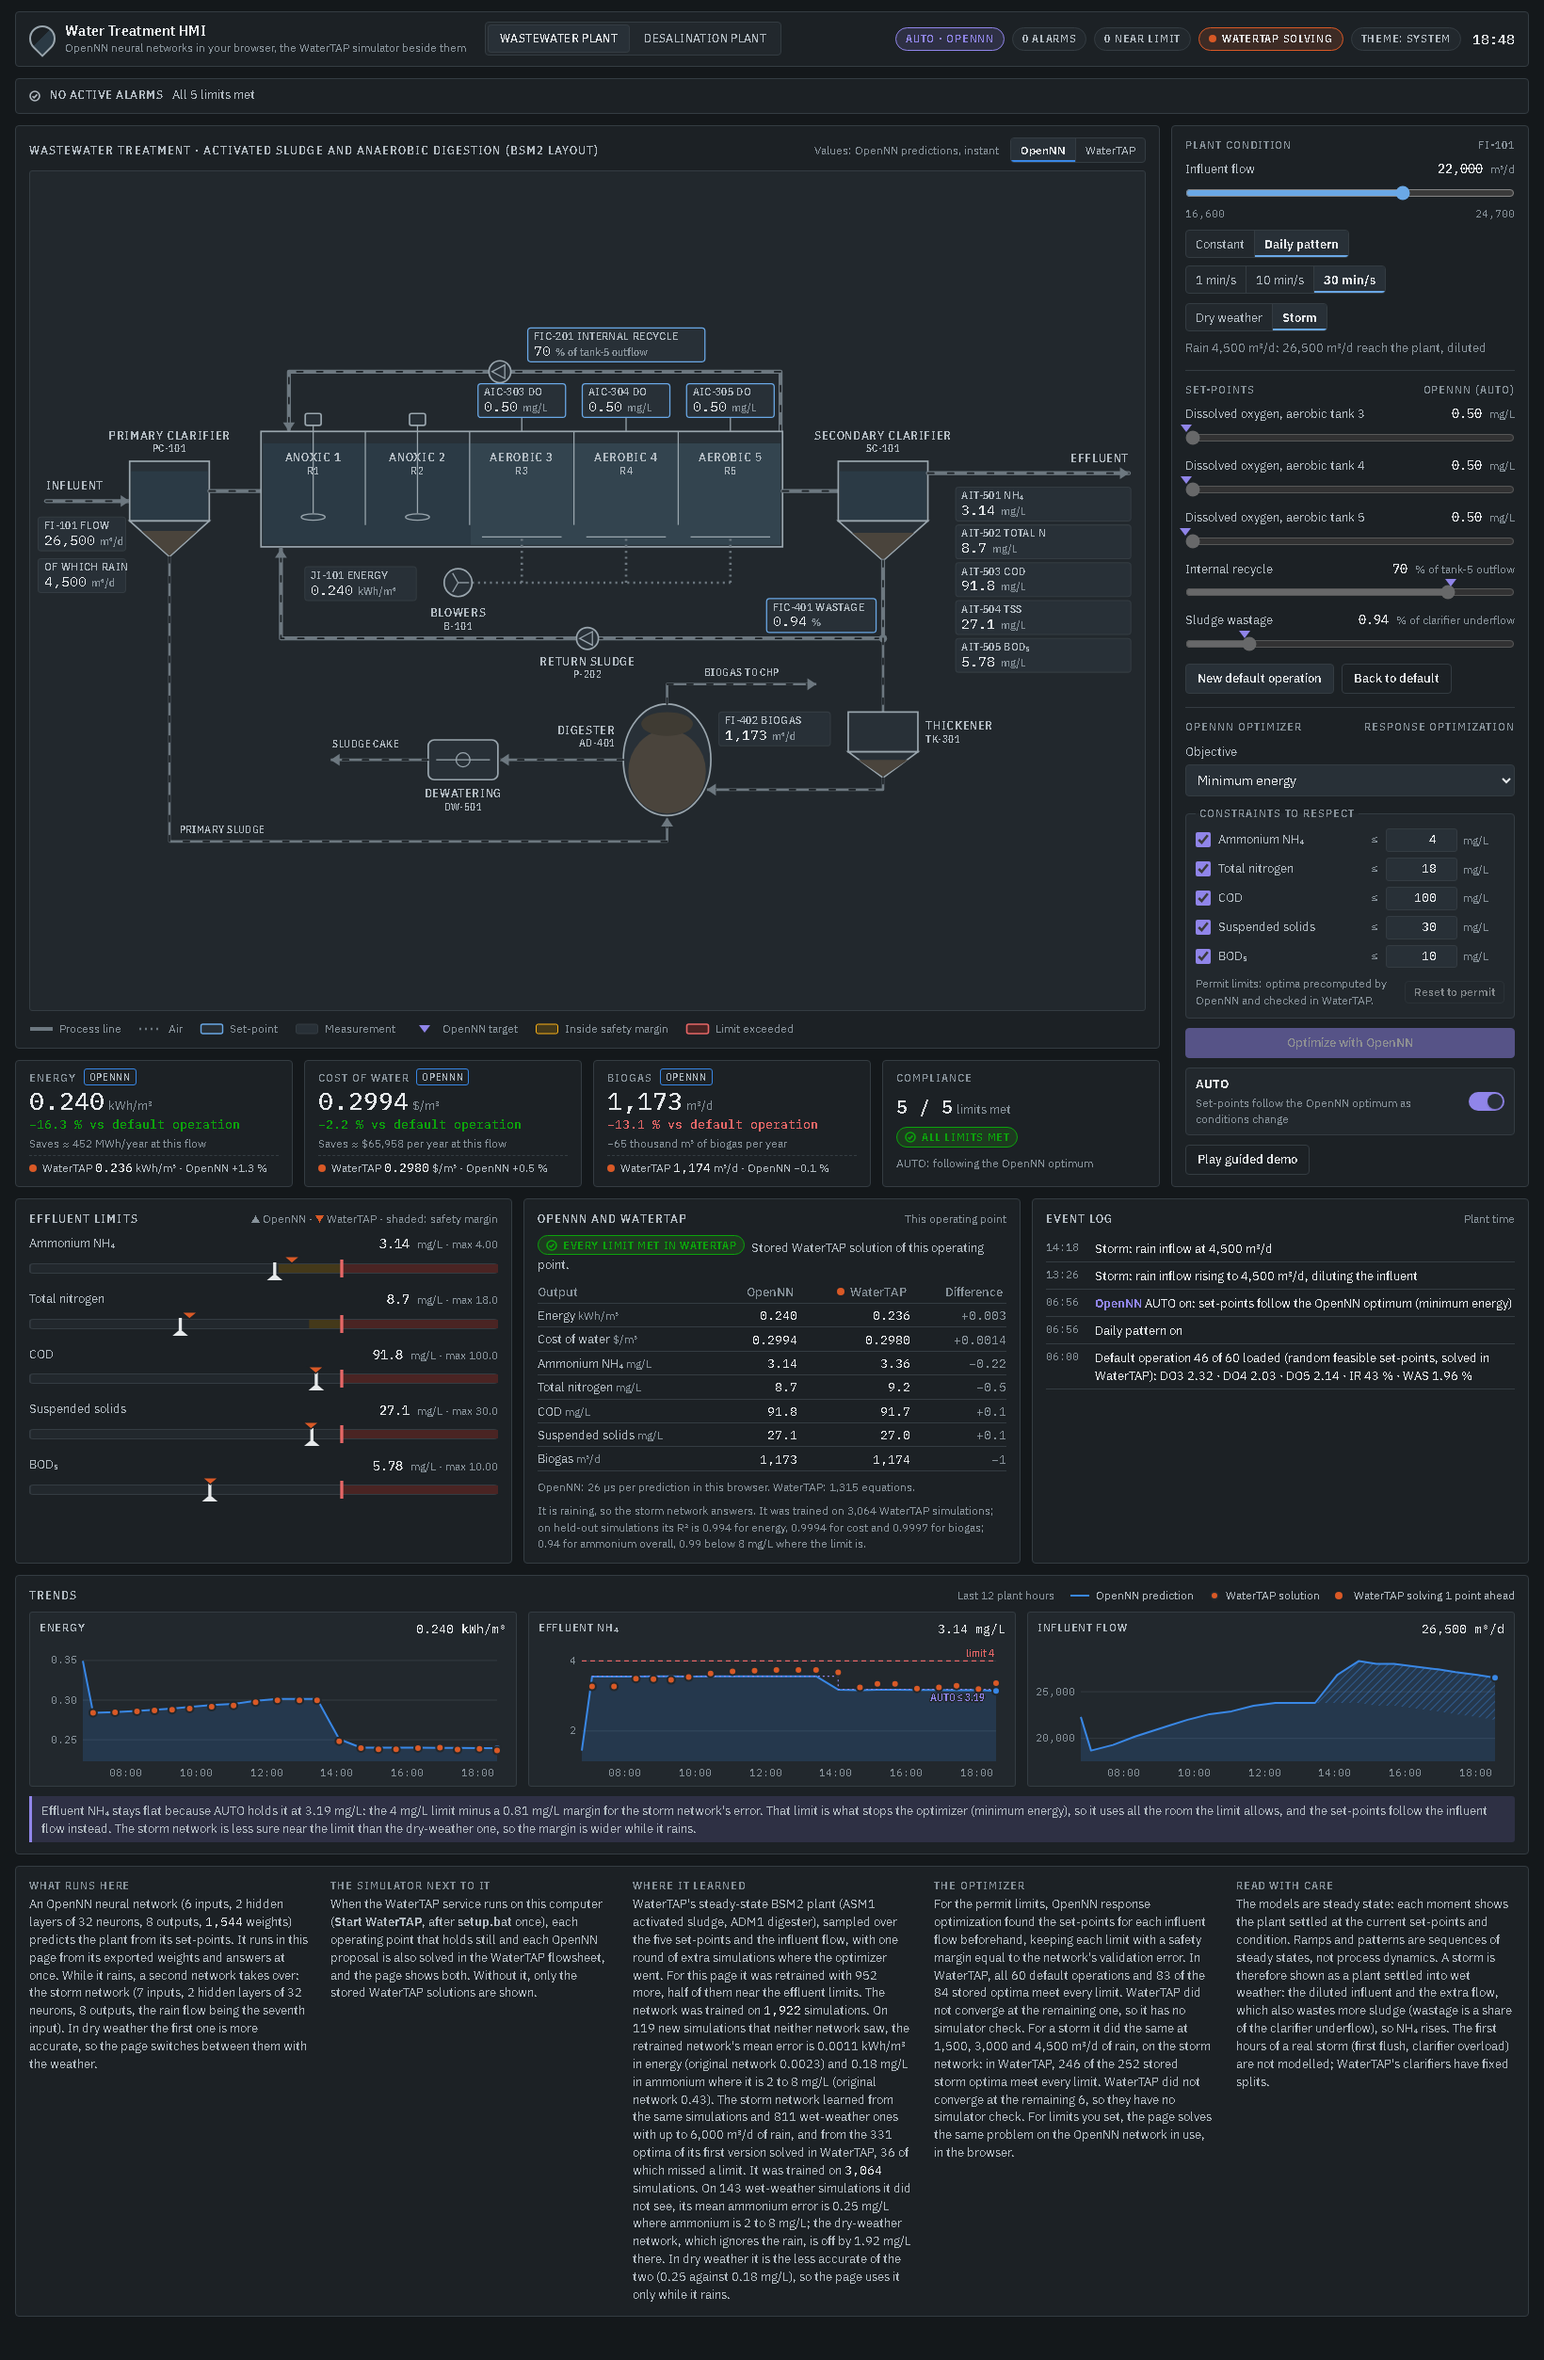
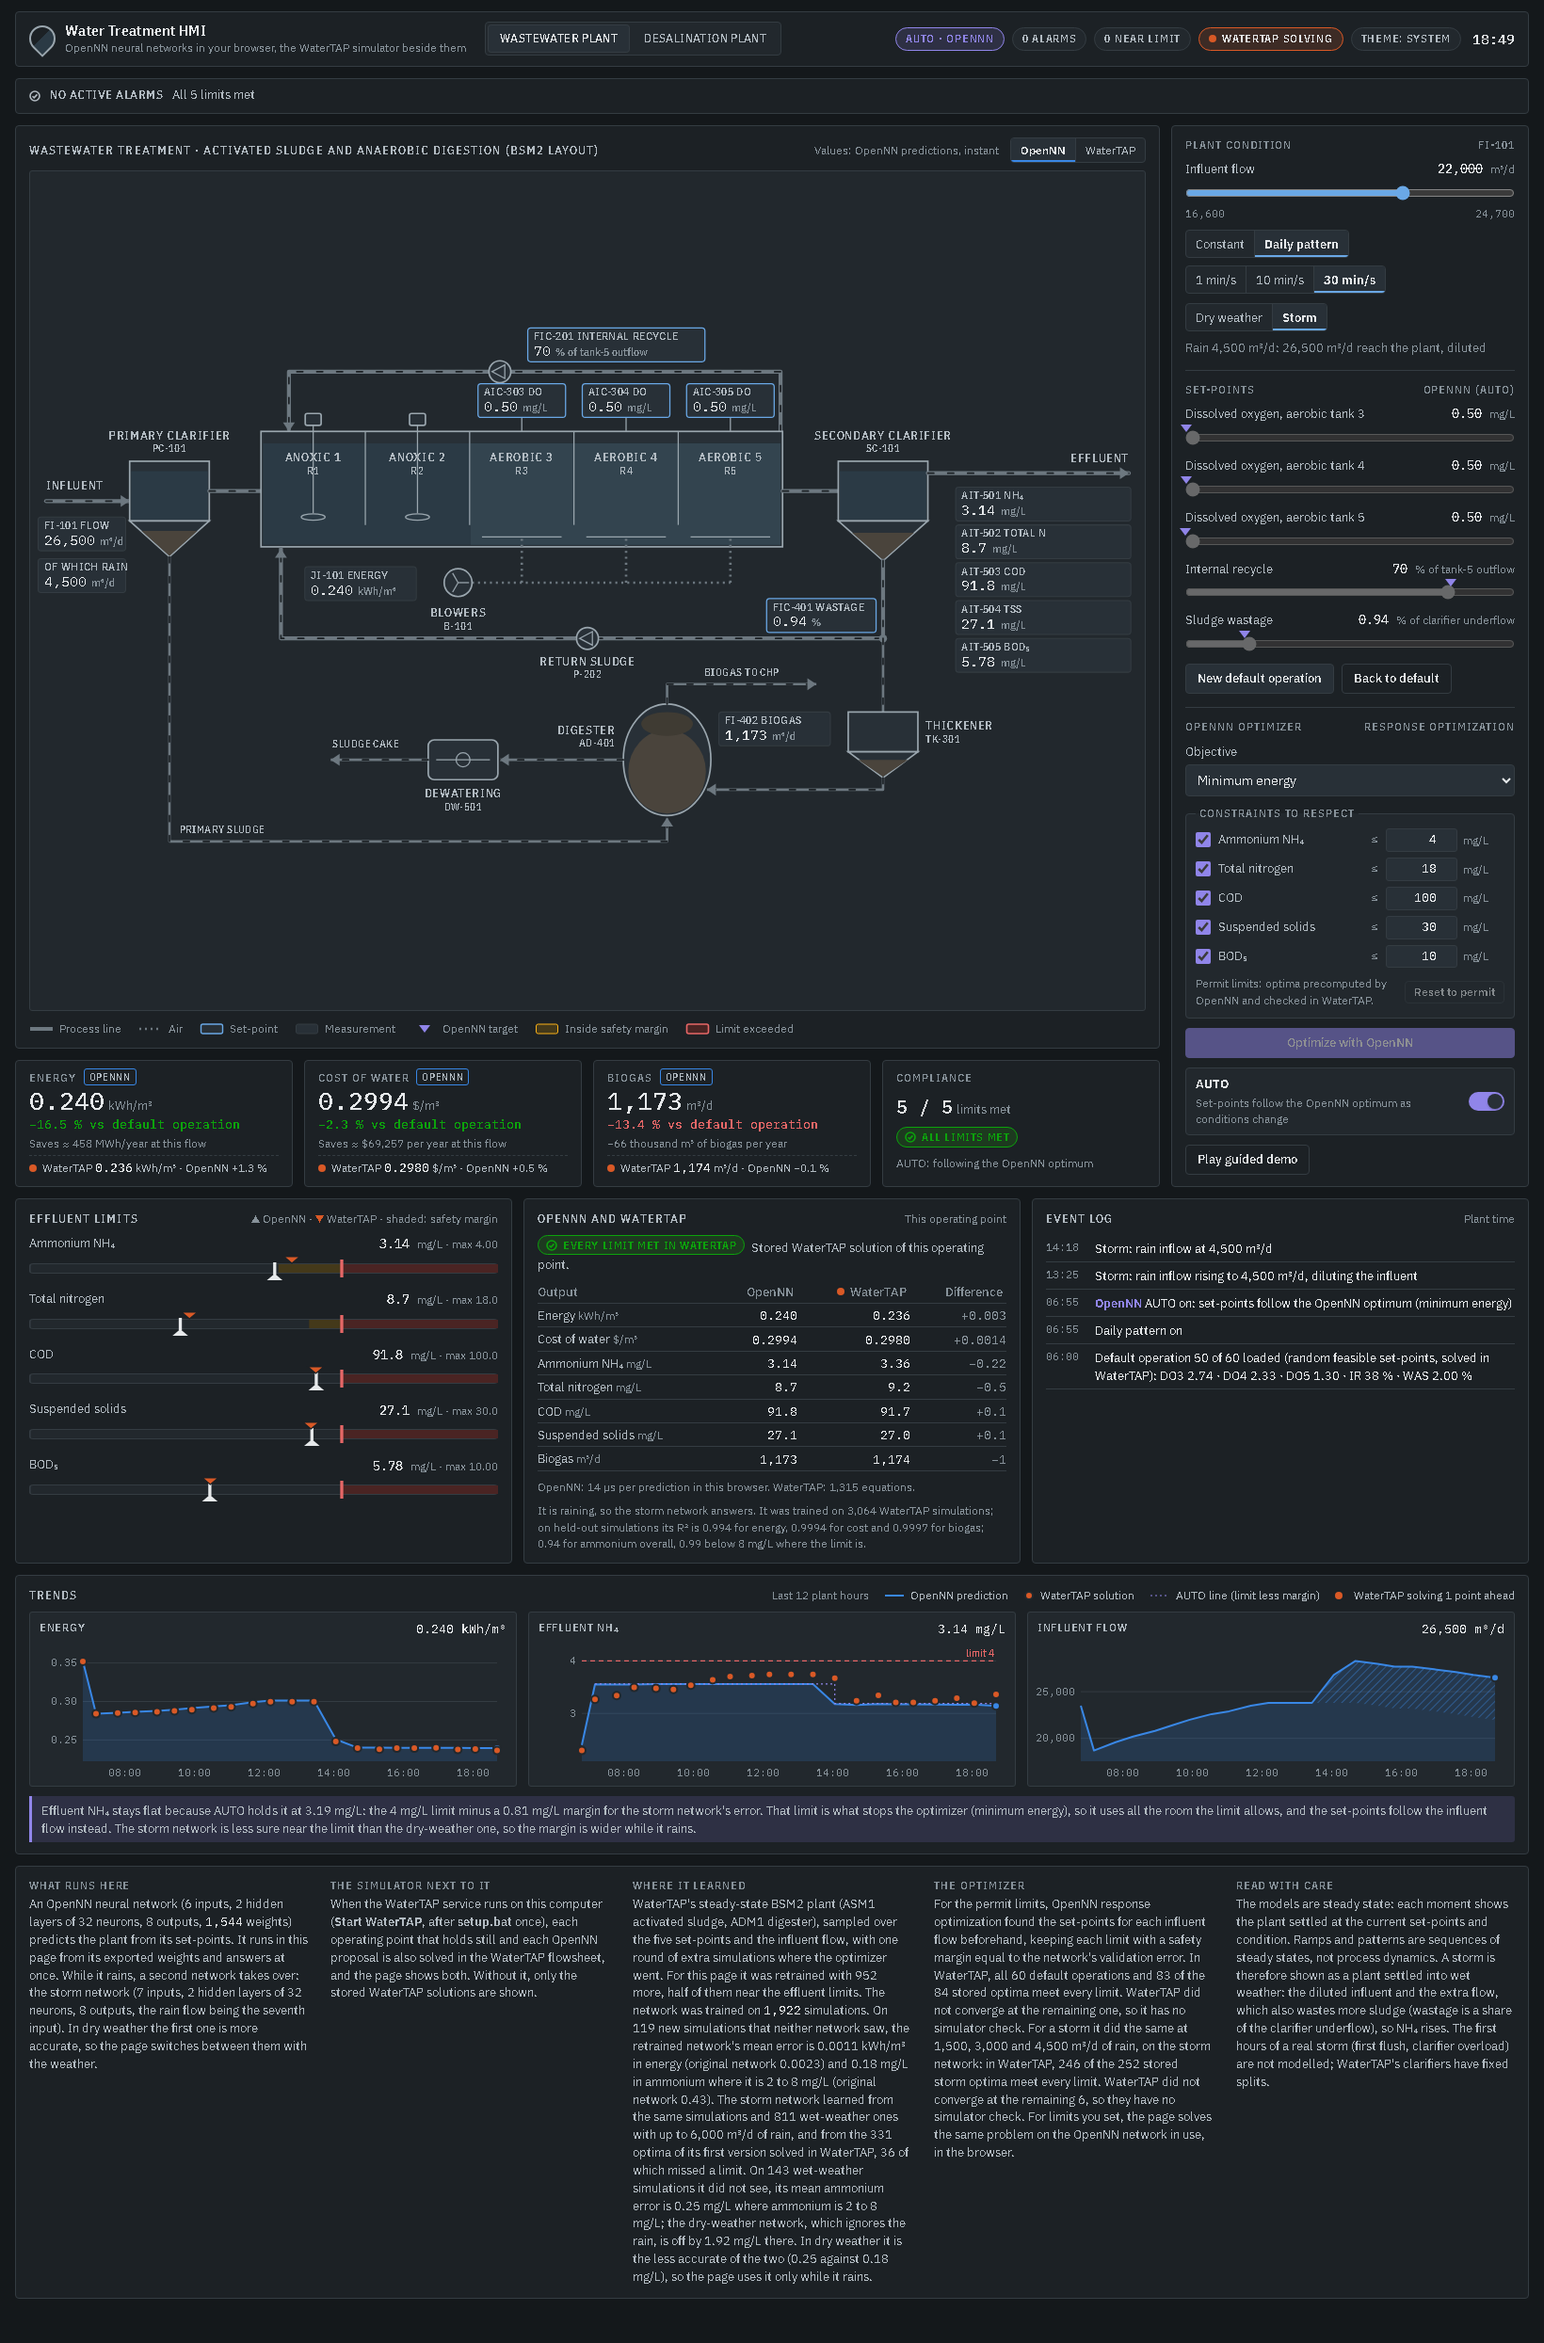
Drop the AUTO value label from the trends
The dotted AUTO line stays on the chart; the trends legend names it
while one of the trends shows it, and the note under the trends gives
its value when an output sits on it.

diff --git a/to_show/water_treatment_hmi.html b/to_show/water_treatment_hmi.html
@@ -469,7 +469,6 @@ select.select { padding: 6px 8px; border-radius: var(--radius); border: 1px soli
 .c-rain { stroke: none; }
 .c-rain-hatch { stroke: var(--series); stroke-width: 1.6; opacity: 0.55; }
 .c-ceiling { fill: none; stroke: var(--opt); stroke-width: 1.2; stroke-dasharray: 2 3; }
-.c-ceiling-label { font: 10.5px var(--font-tag); fill: var(--opt); paint-order: stroke; stroke: var(--surface); stroke-width: 3px; stroke-linejoin: round; }
 .trend-why { margin: 10px 0 0; padding: 6px 10px; border-left: 3px solid var(--opt); background: var(--opt-soft); border-radius: 0 3px 3px 0; font-size: 12.5px; color: var(--ink-2); }
 .c-end { fill: var(--series); stroke: var(--surface); stroke-width: 2; }
 .c-cross { stroke: var(--ink-2); stroke-width: 1; }
@@ -581,6 +580,7 @@ select.select { padding: 6px 8px; border-radius: var(--radius); border: 1px soli
           <span>Last 12 plant hours</span>
           <span class="key"><svg class="key-line" viewBox="0 0 22 10" aria-hidden="true"><line class="c-line" x1="1" y1="5" x2="21" y2="5"/></svg>OpenNN prediction</span>
           <span class="key"><svg class="key-dot" viewBox="0 0 12 12" aria-hidden="true"><circle class="c-sim" cx="6" cy="6" r="4"/></svg>WaterTAP solution</span>
+          <span class="key" id="trend-auto" hidden><svg class="key-line" viewBox="0 0 22 10" aria-hidden="true"><line class="c-ceiling" x1="1" y1="5" x2="21" y2="5"/></svg>AUTO line (limit less margin)</span>
           <span class="key trend-sim" id="trend-sim" aria-live="polite"></span>
         </span>
       </div>
@@ -2653,6 +2653,8 @@ if (typeof module !== "undefined") module.exports = solveOptimum;
     }
     if (box.textContent !== text) box.textContent = text;
     box.hidden = !text;
+    // The legend names the dotted line while one of the trends shows it.
+    $("trend-auto").hidden = !def.trends.some((c) => s.history.some((p) => Number.isFinite(p[`auto_${c.key}`])));
   }
 
   function drawChart(i) {
@@ -2731,10 +2733,6 @@ if (typeof module !== "undefined") module.exports = solveOptimum;
       before = v;
     }
     if (steps) g += `<path class="c-ceiling" d="${steps}"/>`;
-    if (ceiling !== undefined) {
-      const away = active.upper ? 12 : -5;   // the label on the side away from the limit
-      g += `<text class="c-ceiling-label" x="${W - R - 12}" y="${(Y(ceiling) + away).toFixed(1)}" text-anchor="end">AUTO ${active.upper ? "≤" : "≥"} ${fmt(ceiling, c.digits)}</text>`;
-    }
     const last = pts[pts.length - 1];
     g += `<circle class="c-end" cx="${X(last.t).toFixed(1)}" cy="${Y(val(last)).toFixed(1)}" r="4"/>`;
 

diff --git a/to_show/src/app.js b/to_show/src/app.js
@@ -1858,6 +1858,8 @@
     }
     if (box.textContent !== text) box.textContent = text;
     box.hidden = !text;
+    // The legend names the dotted line while one of the trends shows it.
+    $("trend-auto").hidden = !def.trends.some((c) => s.history.some((p) => Number.isFinite(p[`auto_${c.key}`])));
   }
 
   function drawChart(i) {
@@ -1936,10 +1938,6 @@
       before = v;
     }
     if (steps) g += `<path class="c-ceiling" d="${steps}"/>`;
-    if (ceiling !== undefined) {
-      const away = active.upper ? 12 : -5;   // the label on the side away from the limit
-      g += `<text class="c-ceiling-label" x="${W - R - 12}" y="${(Y(ceiling) + away).toFixed(1)}" text-anchor="end">AUTO ${active.upper ? "≤" : "≥"} ${fmt(ceiling, c.digits)}</text>`;
-    }
     const last = pts[pts.length - 1];
     g += `<circle class="c-end" cx="${X(last.t).toFixed(1)}" cy="${Y(val(last)).toFixed(1)}" r="4"/>`;
 

diff --git a/to_show/src/style.css b/to_show/src/style.css
@@ -458,7 +458,6 @@ select.select { padding: 6px 8px; border-radius: var(--radius); border: 1px soli
 .c-rain { stroke: none; }
 .c-rain-hatch { stroke: var(--series); stroke-width: 1.6; opacity: 0.55; }
 .c-ceiling { fill: none; stroke: var(--opt); stroke-width: 1.2; stroke-dasharray: 2 3; }
-.c-ceiling-label { font: 10.5px var(--font-tag); fill: var(--opt); paint-order: stroke; stroke: var(--surface); stroke-width: 3px; stroke-linejoin: round; }
 .trend-why { margin: 10px 0 0; padding: 6px 10px; border-left: 3px solid var(--opt); background: var(--opt-soft); border-radius: 0 3px 3px 0; font-size: 12.5px; color: var(--ink-2); }
 .c-end { fill: var(--series); stroke: var(--surface); stroke-width: 2; }
 .c-cross { stroke: var(--ink-2); stroke-width: 1; }

diff --git a/to_show/src/index.html b/to_show/src/index.html
@@ -85,6 +85,7 @@
           <span>Last 12 plant hours</span>
           <span class="key"><svg class="key-line" viewBox="0 0 22 10" aria-hidden="true"><line class="c-line" x1="1" y1="5" x2="21" y2="5"/></svg>OpenNN prediction</span>
           <span class="key"><svg class="key-dot" viewBox="0 0 12 12" aria-hidden="true"><circle class="c-sim" cx="6" cy="6" r="4"/></svg>WaterTAP solution</span>
+          <span class="key" id="trend-auto" hidden><svg class="key-line" viewBox="0 0 22 10" aria-hidden="true"><line class="c-ceiling" x1="1" y1="5" x2="21" y2="5"/></svg>AUTO line (limit less margin)</span>
           <span class="key trend-sim" id="trend-sim" aria-live="polite"></span>
         </span>
       </div>
